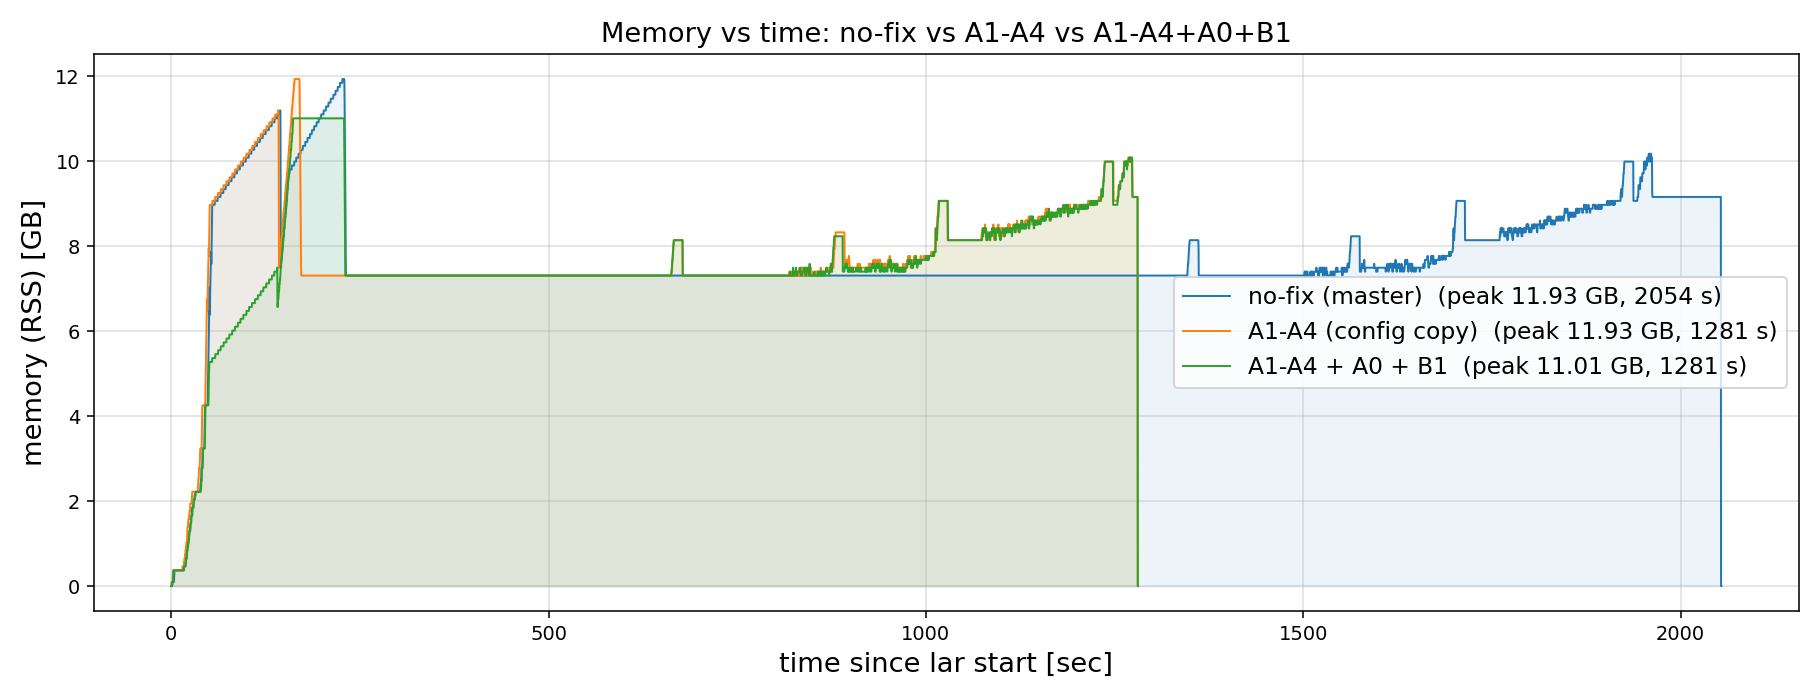
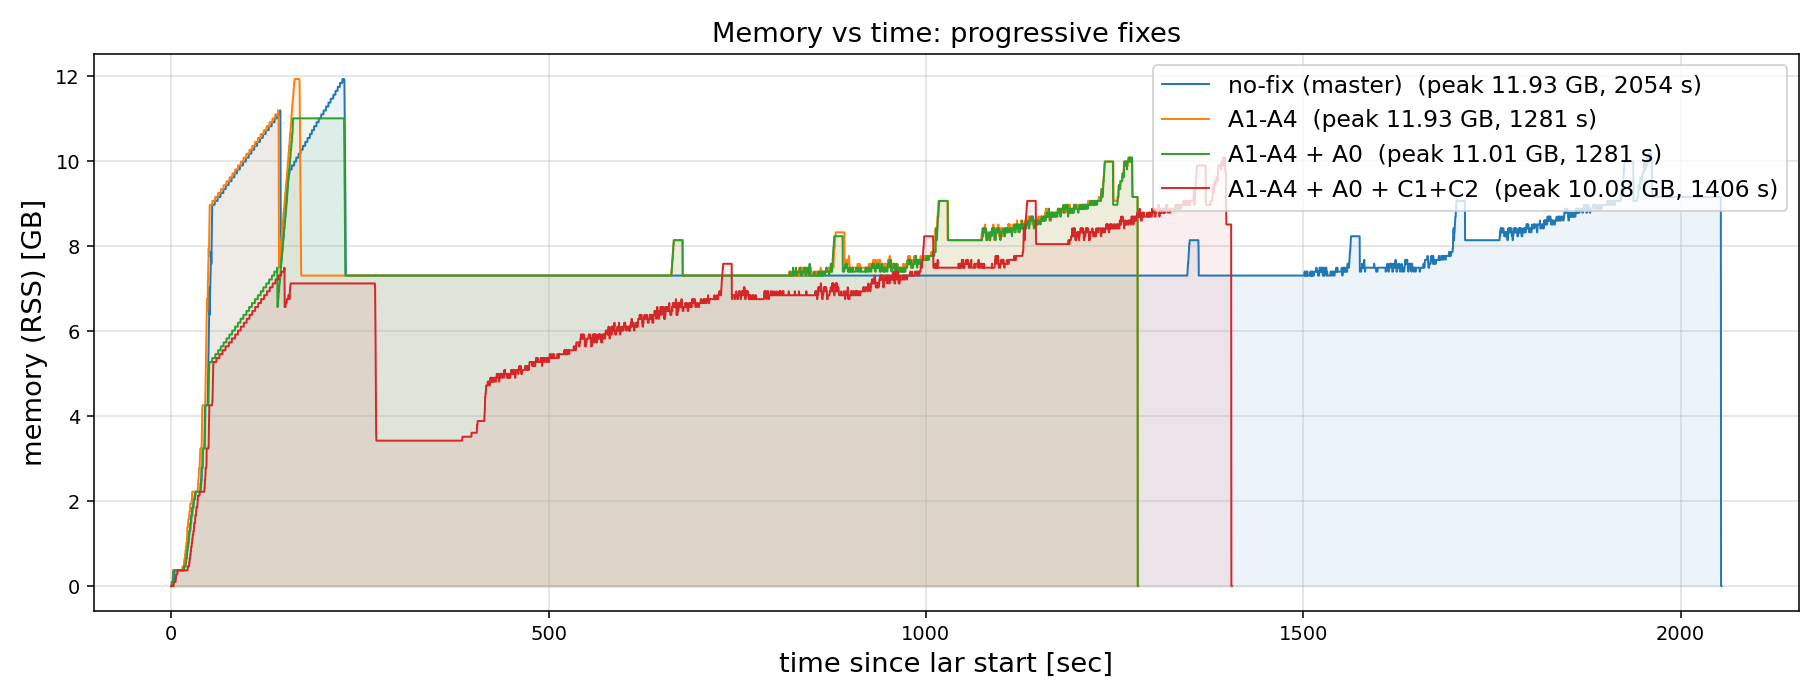
C1, C2

diff --git a/compare-plot.py b/compare-plot.py
@@ -1,5 +1,5 @@
 #!/usr/bin/env python3
-"""Overlay no-fix vs A1-A4 vs A1-A4+A0+B1 memory profiles."""
+"""Overlay no-fix vs A1-A4 vs A1-A4+A0 vs A1-A4+A0+C1+C2 memory profiles."""
 import os, re
 import numpy as np
 import matplotlib
@@ -9,8 +9,9 @@ import matplotlib.pyplot as plt
 RAM_TOTAL_GB = 92.5
 RUNS = [
     ("no-fix (master)",     "/exp/icarus/app/users/yuhw/wcdev-icarus/run-20260514-master-top",   "C0"),
-    ("A1-A4 (config copy)", "/exp/icarus/app/users/yuhw/wcdev-icarus/run-20260514-fix-top",      "C1"),
-    ("A1-A4 + A0 + B1",     "/exp/icarus/app/users/yuhw/wcdev-icarus/run-20260514-fix-a0b1-top", "C2"),
+    ("A1-A4",               "/exp/icarus/app/users/yuhw/wcdev-icarus/run-20260514-fix-top",      "C1"),
+    ("A1-A4 + A0",          "/exp/icarus/app/users/yuhw/wcdev-icarus/run-20260514-fix-a0b1-top", "C2"),
+    ("A1-A4 + A0 + C1+C2",  "/exp/icarus/app/users/yuhw/wcdev-icarus/run-20260514-fix-c1c2-top", "C3"),
 ]
 
 def load(run_dir):
@@ -38,27 +39,10 @@ for label, run_dir, color in RUNS:
     ax.fill_between(t, 0, mem_gb, alpha=0.08, color=color)
 ax.set_xlabel("time since lar start [sec]", fontsize=14)
 ax.set_ylabel("memory (RSS) [GB]", fontsize=14)
-ax.set_title("Memory vs time: no-fix vs A1-A4 vs A1-A4+A0+B1", fontsize=14)
+ax.set_title("Memory vs time: progressive fixes", fontsize=14)
 ax.grid(True, alpha=0.4)
 ax.legend(loc="best", fontsize=12)
 plt.tight_layout()
 out = "/exp/icarus/app/users/yuhw/wcdev-icarus/compare_memory_vs_time.png"
 plt.savefig(out, dpi=140)
 print("wrote", out)
-
-# CPU compare
-fig, ax = plt.subplots(figsize=(13, 4))
-for label, run_dir, color in RUNS:
-    if not os.path.isdir(run_dir):
-        continue
-    t, cpu, _, dur = load(run_dir)
-    ax.plot(t, cpu, label=f"{label}  ({dur:.0f} s)", linewidth=0.8, color=color, alpha=0.85)
-ax.set_xlabel("time since lar start [sec]", fontsize=14)
-ax.set_ylabel("CPU [%]", fontsize=14)
-ax.set_title("CPU vs time: no-fix vs A1-A4 vs A1-A4+A0+B1", fontsize=14)
-ax.grid(True, alpha=0.4)
-ax.legend(loc="best", fontsize=12)
-plt.tight_layout()
-out2 = "/exp/icarus/app/users/yuhw/wcdev-icarus/compare_cpu_vs_time.png"
-plt.savefig(out2, dpi=140)
-print("wrote", out2)
